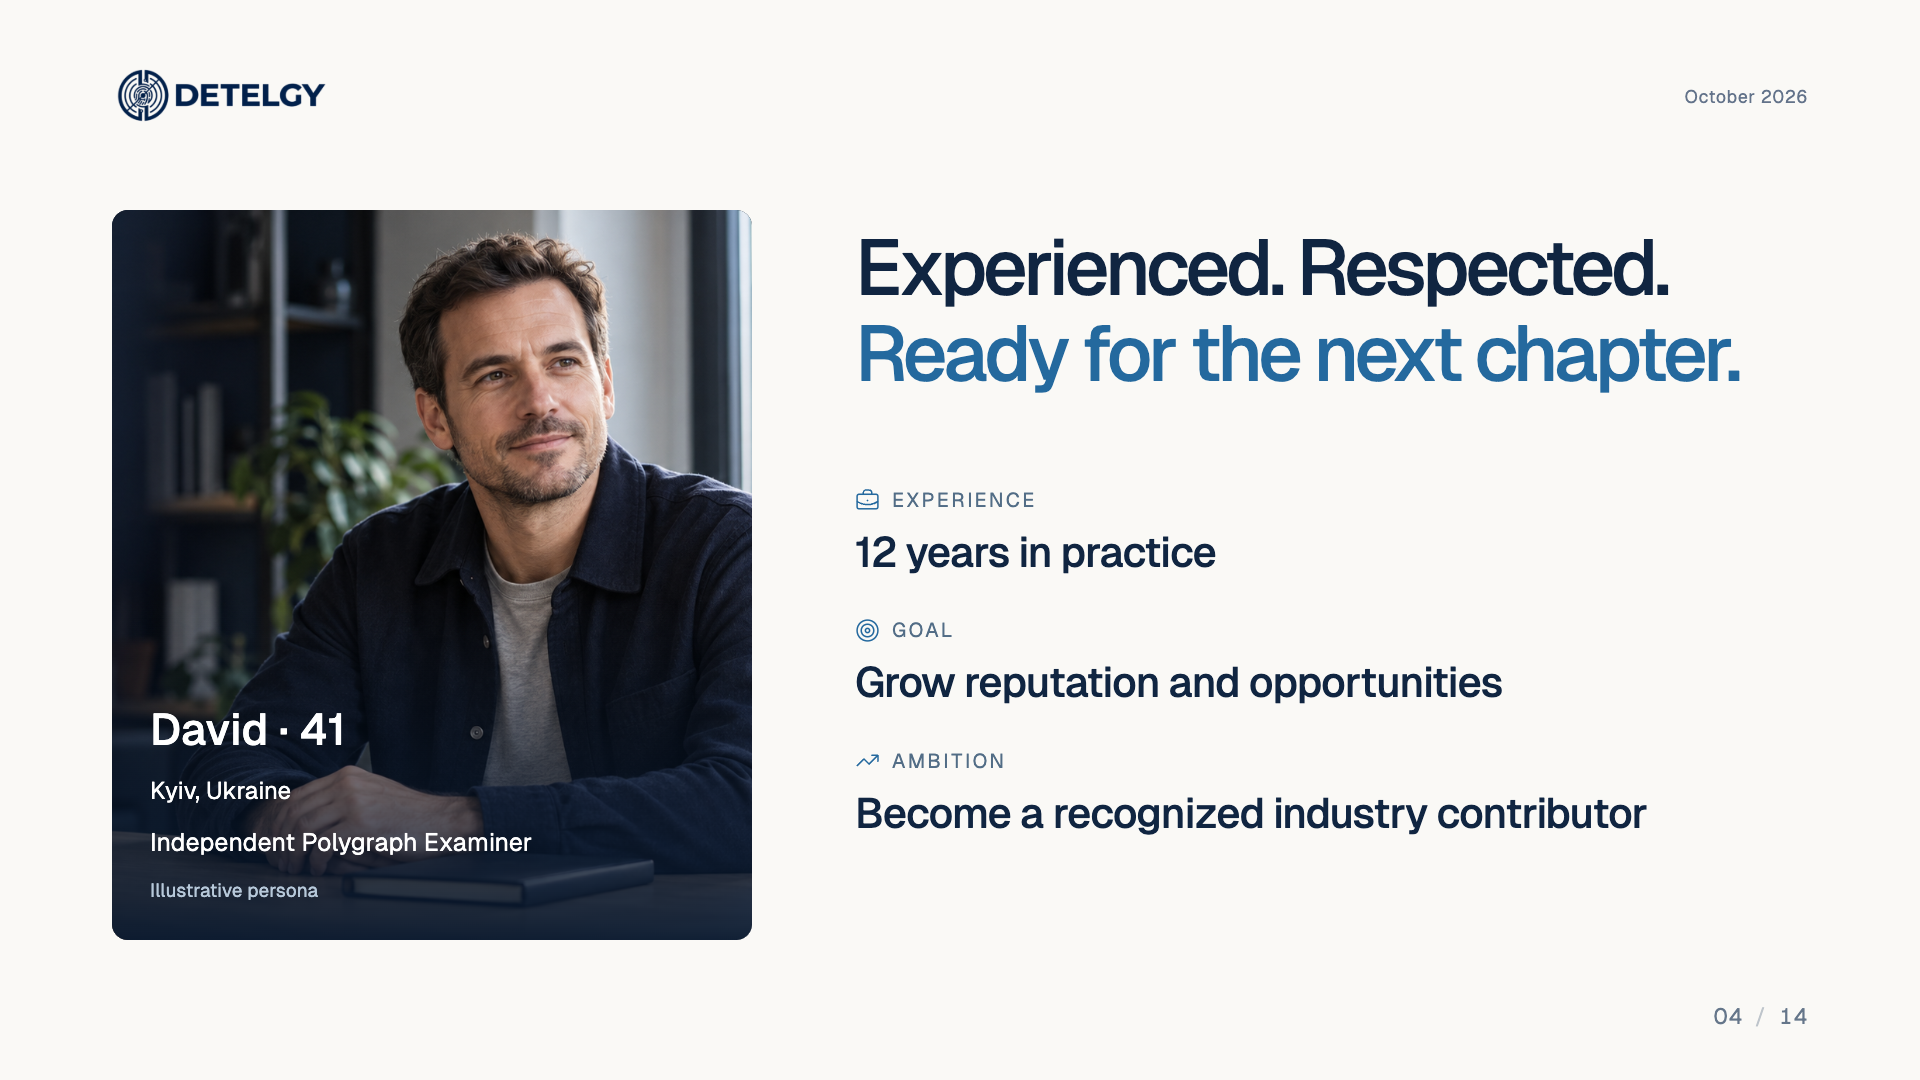
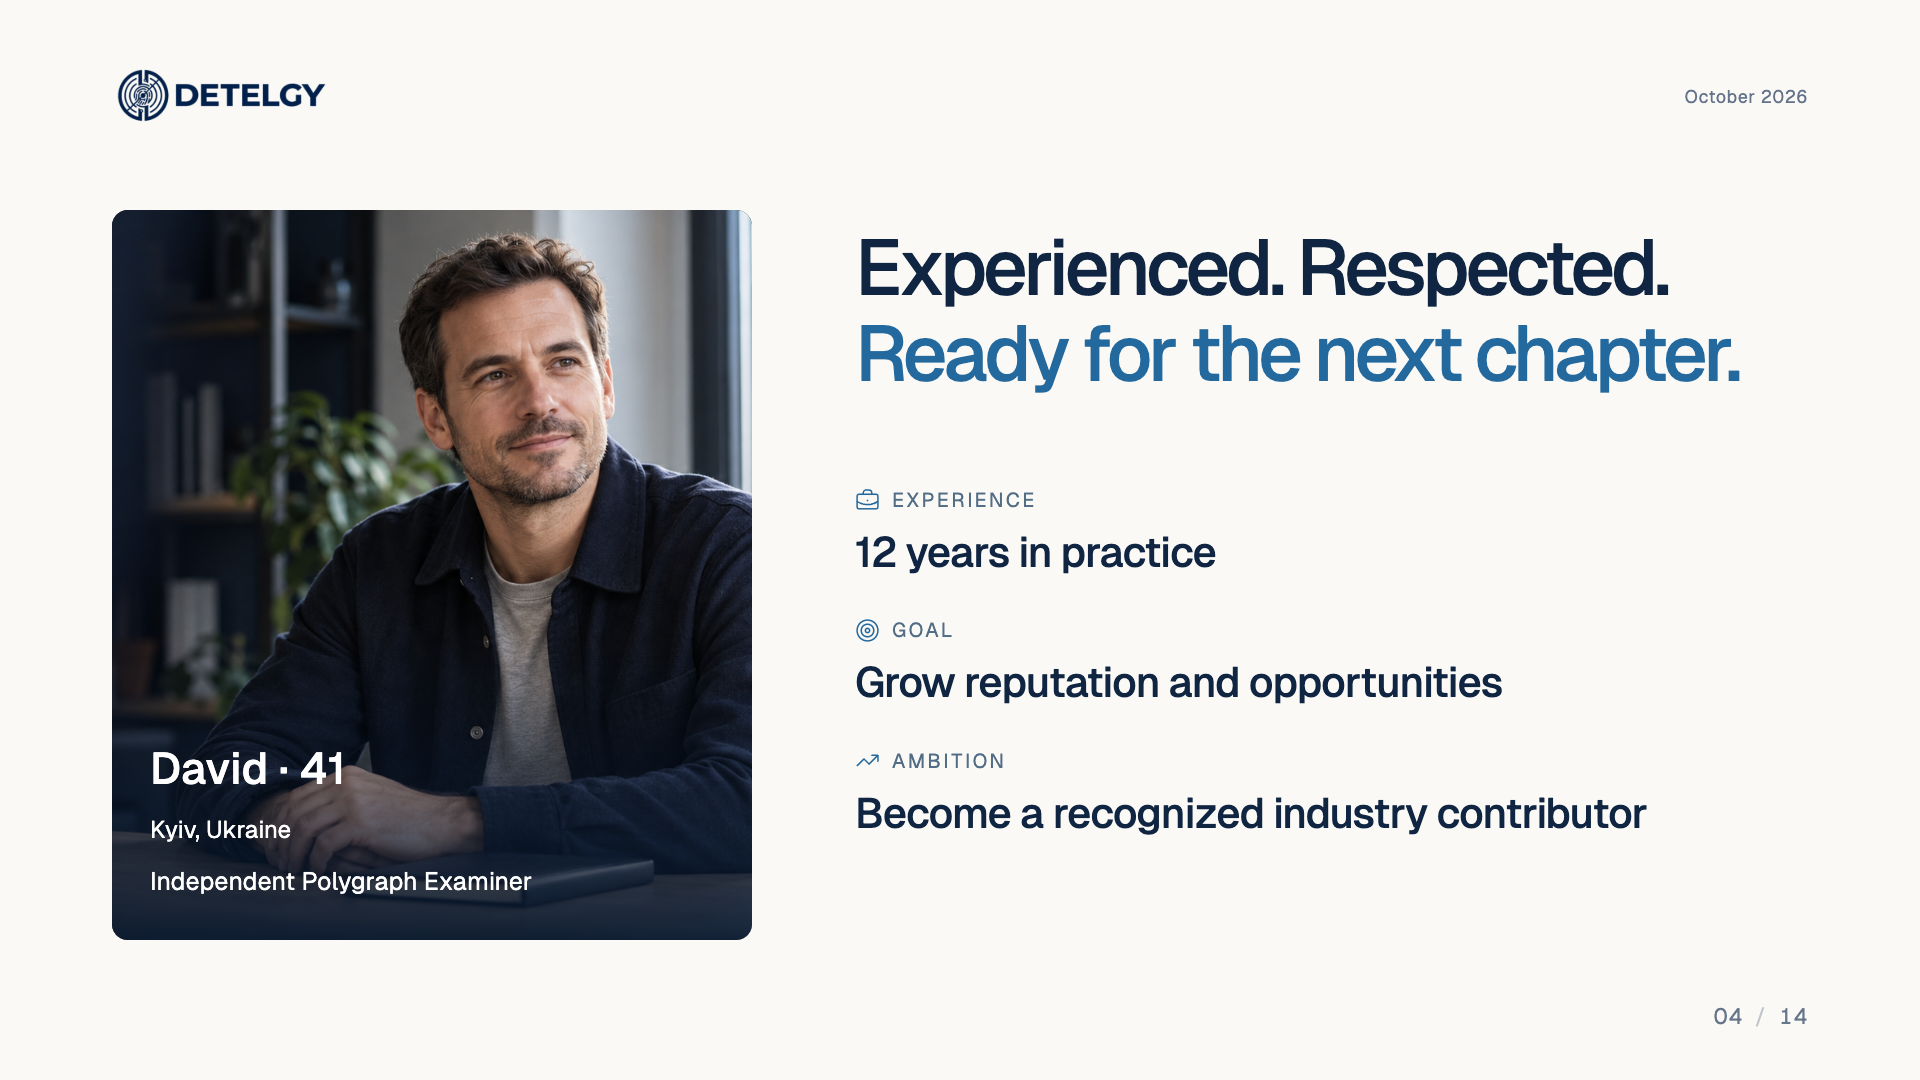
Remove Slide 04 illustrative caption

Changed region(s): [[0.0625, 0.6417, 0.2812, 0.8556]]

diff --git a/lib/presentation.ts b/lib/presentation.ts
@@ -5,7 +5,7 @@ export const releasedLocales: readonly Locale[] = ['en'];
 export type SlideId = `s${string}`;
 export type FeatureStatus = 'built' | 'planned' | 'concept';
 export interface SlideItem { title: string; body?: string; label?: string; outcome?: string; detail?: string; status?: string; secondaryStatus?: string; steps?: string[]; }
-export interface SlideContent { id: string; chapter: string; title: string; accent: string; lead: string; eyebrow: string; items: SlideItem[]; footer: string; note: string; sources: string[]; displayItems?: SlideItem[]; persona?: {name:string;detail:string;label:string;profession?:string}; stages?: string[]; prompt?: string; diagramAlt?: string; momentsLabel?: string; columns?: string[]; center?: string; foundation?: string; moments?: SlideItem[]; closing?: string; cta?: string; }
+export interface SlideContent { id: string; chapter: string; title: string; accent: string; lead: string; eyebrow: string; items: SlideItem[]; footer: string; note: string; sources: string[]; displayItems?: SlideItem[]; persona?: {name:string;detail:string;profession?:string}; stages?: string[]; prompt?: string; diagramAlt?: string; momentsLabel?: string; columns?: string[]; center?: string; foundation?: string; moments?: SlideItem[]; closing?: string; cta?: string; }
 export interface Deck { locale: string; title: string; description: string; ui: typeof english.ui; slides: SlideContent[]; }
 export function getDeck(locale: string): Deck | undefined { return locale === 'en' ? english : undefined; }
 export function slideHref(locale: Locale, id: string) { return `/${locale}/vision#${id}`; }

diff --git a/components/story-slides.tsx b/components/story-slides.tsx
@@ -142,7 +142,6 @@ export function StorySlide({
                 <span className="persona-profession">
                   {s.persona?.profession}
                 </span>
-                <small>{s.persona?.label}</small>
               </div>
             </div>
             <div className="persona-tensions">

diff --git a/docs/visual-redesign-v2.md b/docs/visual-redesign-v2.md
@@ -114,7 +114,7 @@ The compass rose was removed after user feedback about its resemblance to the NA
 
 ## Slide 04 — Meet David, primary persona
 
-Slide 04 now introduces who the independent examiner is and what he wants; barriers remain for Slide 05. The existing portrait occupies 38% of the content width on #E8F3FC. David · 41, Kyiv, Ukraine, Independent Polygraph Examiner and the Illustrative persona label remain legible over the portrait. The headline is two lines with a deeper-blue second line. Experience, Goal and Ambition are large, unboxed editorial blocks. Existing sources and notes are preserved, with David's fictional narrative context added. Portrait → headline → three dimensions reveal in 1.15 seconds, with reduced-motion and print fallbacks. Only a single-slide review PDF is generated for this request; the full deck PDF remains deferred.
+Slide 04 introduces who the independent examiner is and what he wants; barriers remain for Slide 05. The portrait occupies 38% of the content width on warm off-white. David · 41, Kyiv, Ukraine, and Independent Polygraph Examiner remain legible over the portrait, with 12 years in practice shown in the editorial text. The illustrative nature of the fictional persona stays in speaker notes rather than a visible label. The headline is two lines with a deeper-blue second line. Experience, Goal and Ambition are large, unboxed editorial blocks. The entrance sequence and reduced-motion and print fallbacks remain intact. The full-deck PDF remains deferred.
 
 ### Slide 04 entrance refinement
 
